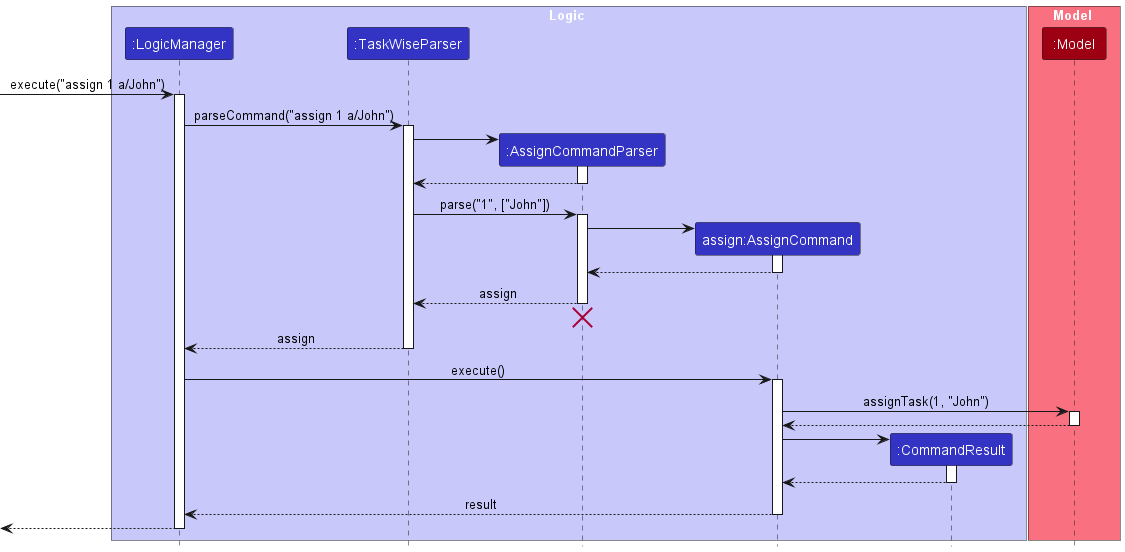
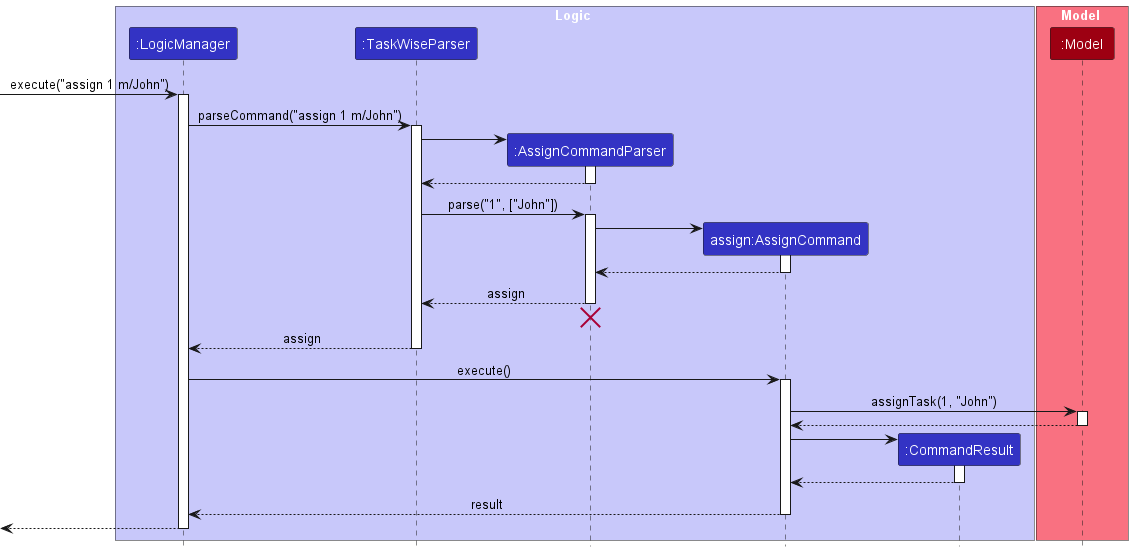
Refactor Assignee to Member

diff --git a/src/main/java/seedu/address/logic/commands/AssignCommand.java b/src/main/java/seedu/address/logic/commands/AssignCommand.java
@@ -6,7 +6,8 @@ import seedu.address.logic.Messages;
 import seedu.address.logic.commands.exceptions.CommandException;
 import seedu.address.logic.commands.exceptions.IllegalTaskIndexException;
 import seedu.address.model.Model;
-import seedu.address.model.tag.Assignee;
+import seedu.address.model.tag.Member;
+import seedu.address.model.tag.Member;
 import seedu.address.model.task.Description;
 import seedu.address.model.task.Status;
 import seedu.address.model.task.Task;
@@ -31,7 +32,7 @@ public class AssignCommand extends Command{
     public static final String MESSAGE_EDIT_TASK_SUCCESS = "Edited Task: %1$s";
 
     private final Index index;
-    private final Assignee[] assignees; //TODO change implementation to a new form
+    private final Member[] assignees; //TODO change implementation to a new form
 
 //    private final EditCommand.EditTaskDescriptor editTaskDescriptor;
 
@@ -46,7 +47,7 @@ public class AssignCommand extends Command{
         //duplicates will be handled by the Task
 
         this.index = index;
-        this.assignees = Arrays.stream(assignees).map(name -> new Assignee(name)).toArray(Assignee[]::new);
+        this.assignees = Arrays.stream(assignees).map(name -> new Member(name)).toArray(Member[]::new);
 //        this.editTaskDescriptor = new EditCommand.EditTaskDescriptor(editTaskDescriptor);
     }
 
@@ -73,7 +74,7 @@ public class AssignCommand extends Command{
      * Creates and returns a {@code Task} with the details of {@code taskToEdit}
      * edited with {@code editTaskDescriptor}.
      */
-    private static Task createAssignedTask(Task taskToAssign, Assignee[] assignees) {
+    private static Task createAssignedTask(Task taskToAssign, Member[] assignees) {
         assert taskToAssign != null;
 
 //        Description updatedName = editTaskDescriptor.getDescription().orElse(taskToEdit.getDescription());

diff --git a/src/main/java/seedu/address/model/tag/Member.java b/src/main/java/seedu/address/model/tag/Member.java
@@ -7,19 +7,19 @@ import static seedu.address.commons.util.AppUtil.checkArgument;
  * Represents an assignee in the list of tasks in taskWise.
  * Guarantees: immutable;
  */
-public class Assignee {
+public class Member {
  //TODO create test files
 
-    public final String assigneeName;
+    public final String memberName;
 
     /**
      * Constructs a {@code Assignee}.
      *
-     * @param assigneeName A valid tag name.
+     * @param memberName A valid tag name.
      */
-    public Assignee(String assigneeName) {
-        requireNonNull(assigneeName);
-        this.assigneeName = assigneeName;
+    public Member(String memberName) {
+        requireNonNull(memberName);
+        this.memberName = memberName;
     }
 
 //    /**
@@ -36,24 +36,24 @@ public class Assignee {
         }
 
         // instanceof handles nulls
-        if (!(other instanceof Assignee)) {
+        if (!(other instanceof Member)) {
             return false;
         }
 
-        Assignee otherTag = (Assignee) other;
-        return assigneeName.equals(otherTag.assigneeName);
+        Member otherTag = (Member) other;
+        return memberName.equals(otherTag.memberName);
     }
 
     @Override
     public int hashCode() {
-        return assigneeName.hashCode();
+        return memberName.hashCode();
     }
 
     /**
      * Format state as text for viewing.
      */
     public String toString() {
-        return '[' + assigneeName + ']';
+        return '[' + memberName + ']';
     }
 
 }

diff --git a/src/main/java/seedu/address/logic/parser/CliSyntax.java b/src/main/java/seedu/address/logic/parser/CliSyntax.java
@@ -9,7 +9,7 @@ public class CliSyntax {
     public static final Prefix PREFIX_DESCRIPTION = new Prefix("d/");
     public static final Prefix PREFIX_TAG = new Prefix("t/");
 
-    public static final Prefix PREFIX_ASSIGNEES = new Prefix("a/");
+    public static final Prefix PREFIX_MEMBERS = new Prefix("m/");
 
     public static final Prefix PREFIX_SORT_ORDER = new Prefix("o/");
     public static final Prefix PREFIX_SORT_TYPE = new Prefix("ty/");

diff --git a/src/main/java/seedu/address/logic/parser/AssignCommandParser.java b/src/main/java/seedu/address/logic/parser/AssignCommandParser.java
@@ -2,7 +2,7 @@ package seedu.address.logic.parser;
 
 import seedu.address.logic.commands.AssignCommand;
 
-public class AssignCommandParser extends Parser<AssignCommand> {
+public class AssignCommandParser implements Parser<AssignCommand> {
     public AssignCommand parse(String args) {
         return new AssignCommand();
     }

diff --git a/src/main/java/seedu/address/model/task/Task.java b/src/main/java/seedu/address/model/task/Task.java
@@ -8,7 +8,7 @@ import java.util.Objects;
 import java.util.Set;
 
 import seedu.address.commons.util.ToStringBuilder;
-import seedu.address.model.tag.Assignee;
+import seedu.address.model.tag.Member;
 import seedu.address.model.tag.Tag;
 
 /**
